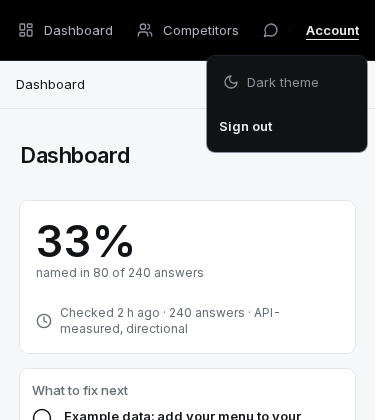
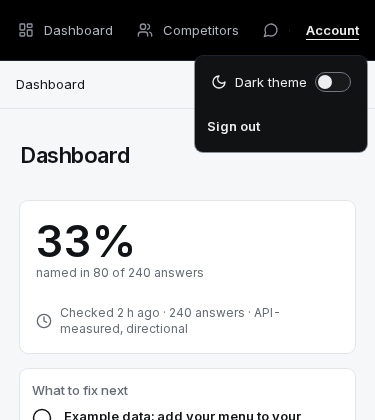
feat(app): the Account-menu theme toggle is a switch that shows its state (#145 review)
In Account the toggle looked disabled (muted icon and label) and showed
no state. It is now an ink-coloured switch row with a visible on/off
track and aria-checked.

Changed region(s): [[0.4987, 0.1238, 0.9387, 0.3714]]

diff --git a/src/components/ui/ThemeToggle.tsx b/src/components/ui/ThemeToggle.tsx
@@ -3,20 +3,52 @@ import { usePrefs } from "@/components/workspace/hooks";
 import { writePrefs } from "@/lib/workspace/prefs";
 import { Icon } from "./Icon";
 
+const focus = "focus-visible:outline-2 focus-visible:-outline-offset-2 focus-visible:outline-jellyDeep";
+
 // The O2 toggle (v3) for /app, sharing /team's stored choice and its "Dark theme" label. labelled: the
-// label shows as text too, for the phone Account menu (X9a).
+// phone Account menu row (X9a), a switch with its label and a visible on/off track (#145 review).
 export function ThemeToggle({ labelled = false }: { labelled?: boolean }) {
   const { theme } = usePrefs();
+  const dark = theme === "dark";
+  const flip = () => writePrefs({ theme: dark ? "light" : "dark" });
+  if (labelled)
+    return (
+      <button
+        type="button"
+        role="switch"
+        aria-checked={dark}
+        aria-label="Dark theme"
+        onClick={flip}
+        className={`flex h-11 w-full items-center gap-2 rounded-control px-3 text-ui text-ink hover:bg-raised ${focus}`}
+      >
+        <Icon name="moon" className="size-4" />
+        <span aria-hidden className="flex-1 text-left whitespace-nowrap">
+          Dark theme
+        </span>
+        <span
+          aria-hidden
+          data-switch-track
+          className={`relative inline-flex h-5 w-9 shrink-0 items-center rounded-full border ${
+            dark ? "border-accent bg-accent" : "border-fieldBorder bg-overlay"
+          }`}
+        >
+          <span
+            className={`size-3.5 rounded-full transition-transform motion-reduce:transition-none ${
+              dark ? "translate-x-4 bg-onAccent" : "translate-x-0.5 bg-ink"
+            }`}
+          />
+        </span>
+      </button>
+    );
   return (
     <button
       type="button"
       aria-label="Dark theme"
-      aria-pressed={theme === "dark"}
-      onClick={() => writePrefs({ theme: theme === "dark" ? "light" : "dark" })}
-      className={`${labelled ? "flex h-11 w-full items-center gap-2 px-3 text-ui" : "grid size-11 place-items-center"} rounded-control text-inkMuted hover:bg-raised hover:text-ink focus-visible:outline-2 focus-visible:-outline-offset-2 focus-visible:outline-jellyDeep`}
+      aria-pressed={dark}
+      onClick={flip}
+      className={`grid size-11 place-items-center rounded-control text-inkMuted hover:bg-raised hover:text-ink ${focus}`}
     >
       <Icon name="moon" className="size-4" />
-      {labelled && <span aria-hidden>Dark theme</span>}
     </button>
   );
 }

diff --git a/tests/e2e/client-theme.spec.ts b/tests/e2e/client-theme.spec.ts
@@ -10,24 +10,25 @@ test("the /client header toggles the theme, saves it, and the saved choice wins 
   await expect(page.locator("html")).toHaveAttribute("data-theme", "light");
   // X9a: from md the toggle is in the bar; on phones it's inside Account.
   const phone = page.viewportSize()!.width < 768;
+  // The phone copy in Account is a switch (aria-checked); the bar button is aria-pressed.
+  const state = phone ? "aria-checked" : "aria-pressed";
   const openAccount = async () => phone && (await page.getByText("Account", { exact: true }).first().click());
-  const visibleToggle = () =>
-    page.getByRole("banner").getByRole("button", { name: "Dark theme" }).locator("visible=true");
+  const visibleToggle = () => page.getByRole("banner").getByLabel("Dark theme").locator("visible=true");
   await openAccount();
   const toggle = visibleToggle();
-  await expect(toggle).toHaveAttribute("aria-pressed", "false");
+  await expect(toggle).toHaveAttribute(state, "false");
   await page.screenshot({
     path: `test-results/screenshots/client-theme-light-${info.project.name}.png`,
     fullPage: true,
   });
   await toggle.click();
   await expect(page.locator("html")).toHaveAttribute("data-theme", "dark");
-  await expect(toggle).toHaveAttribute("aria-pressed", "true");
+  await expect(toggle).toHaveAttribute(state, "true");
   // Saved: a reload (system still light) is dark from the first paint.
   await page.reload();
   await expect(page.locator("html")).toHaveAttribute("data-theme", "dark");
   await openAccount();
-  await expect(visibleToggle()).toHaveAttribute("aria-pressed", "true");
+  await expect(visibleToggle()).toHaveAttribute(state, "true");
   await expect(page.getByRole("heading", { level: 1 })).toBeVisible();
   await page.screenshot({
     path: `test-results/screenshots/client-theme-dark-${info.project.name}.png`,

diff --git a/tests/e2e/phone-top-bar.spec.ts b/tests/e2e/phone-top-bar.spec.ts
@@ -27,7 +27,8 @@ test("/app: phones show only the page crumb; the theme toggle is in Account and 
   expect(Math.round((await header.boundingBox())!.height)).toBe(48);
   await expect(header.getByRole("button", { name: "Dark theme" })).toBeHidden();
   await page.getByText("Account", { exact: true }).first().click();
-  const toggle = page.getByRole("button", { name: "Dark theme" }).locator("visible=true");
+  // #145 review: in Account it is a switch that shows its state.
+  const toggle = page.getByRole("switch", { name: "Dark theme" }).locator("visible=true");
   await expect(toggle).toHaveCount(1);
   const was = await page.locator("html").getAttribute("data-theme");
   await toggle.click();
@@ -59,5 +60,5 @@ test("/client: phones move the toggle into Account", async ({ page }) => {
   await page.goto("/dev/client");
   await expect(page.getByRole("banner").getByRole("button", { name: "Dark theme" })).toBeHidden();
   await page.getByText("Account", { exact: true }).first().click();
-  await expect(page.getByRole("button", { name: "Dark theme" }).locator("visible=true")).toHaveCount(1);
+  await expect(page.getByRole("switch", { name: "Dark theme" }).locator("visible=true")).toHaveCount(1);
 });

diff --git a/tests/unit/app/v3-shell.test.tsx b/tests/unit/app/v3-shell.test.tsx
@@ -55,7 +55,8 @@ describe("v3 /app shell", () => {
     expect(within(crumbs).getByText("Sources")).toHaveAttribute("aria-current", "page");
     expect(within(crumbs).getByRole("link", { name: "Rank1" })).toHaveAttribute("href", "/");
     // X9a: the actions sit in the top bar from md, and inside Account below md.
-    const [account, bar] = screen.getAllByRole("button", { name: "Dark theme" });
+    const bar = screen.getByRole("button", { name: "Dark theme" });
+    const account = screen.getByRole("switch", { name: "Dark theme" });
     expect(screen.getByRole("banner")).toContainElement(bar);
     expect(bar.parentElement).toHaveClass("max-md:hidden");
     expect(account.closest("details")).not.toBeNull();

diff --git a/tests/unit/team/team-shell.test.tsx b/tests/unit/team/team-shell.test.tsx
@@ -45,7 +45,8 @@ describe("v3 /team shell", () => {
     const bar = screen.getByRole("banner");
     expect(within(bar).getByRole("button", { name: "Dark theme" }).parentElement).toHaveClass("max-md:hidden");
     // X9a: in the rail only as the phone copy inside Account.
-    const inRail = within(rail).queryAllByRole("button", { name: "Dark theme" });
+    const inRail = within(rail).queryAllByRole("switch", { name: "Dark theme" });
+    expect(within(rail).queryByRole("button", { name: "Dark theme" })).toBeNull();
     expect(inRail).toHaveLength(1);
     expect(inRail[0].closest("details")).not.toBeNull();
     expect(inRail[0].parentElement).toHaveClass("md:hidden");

diff --git a/tests/unit/auth/app-header-theme.test.tsx b/tests/unit/auth/app-header-theme.test.tsx
@@ -16,7 +16,8 @@ describe("AppHeader (the /client header)", () => {
     render(<AppHeader />);
     const header = screen.getByRole("banner");
     // X9a: md+ shows it in the bar (hidden below md); phones get the same toggle inside Account.
-    const [bar, phone] = within(header).getAllByRole("button", { name: "Dark theme" });
+    const bar = within(header).getByRole("button", { name: "Dark theme" });
+    const phone = within(header).getByRole("switch", { name: "Dark theme" });
     expect(bar).toHaveAttribute("aria-pressed");
     expect(bar.closest("details")).toBeNull();
     expect(bar.parentElement).toHaveClass("max-md:hidden");

diff --git a/docs/progress/2026-11-06-ux-phone-top-bar.md b/docs/progress/2026-11-06-ux-phone-top-bar.md
@@ -5,3 +5,4 @@
 - The theme toggle is md+ in the bar. Below md it's in Account, above Sign out, as "Dark theme" with its icon (`ThemeToggle labelled`, the same prefs and aria-pressed). /app (AppShell), /client (AppHeader) and /team (Sidebar Account) all work this way.
 - AppShell renders the toggle itself. Its `actions` prop is removed (both callers passed `<ThemeToggle />`).
 - Tests changed for the new phone layout: v3-drift C5 counts visible crumbs; theme.spec skips the Rank1-crumb path below md; client-theme.spec uses the Account toggle on phones; three unit shell tests tell the bar toggle from the Account copy.
+- Review follow-up: in Account the toggle is a `role="switch"` with `aria-checked`, ink text (not muted), a visible on/off track and a 44px row. Not `menuitemcheckbox`: the Account popup isn't a `role="menu"`, and axe requires that parent for menuitemcheckbox. The bar's icon button keeps `aria-pressed`.
